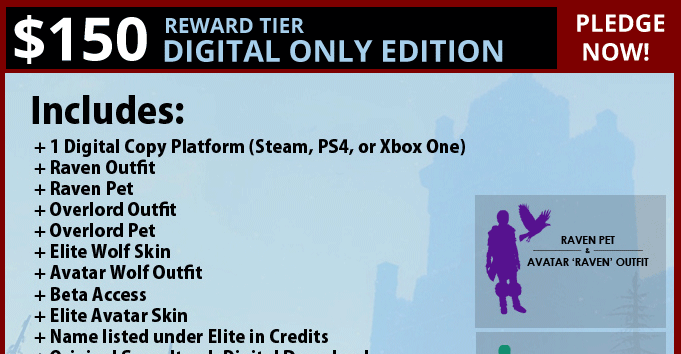
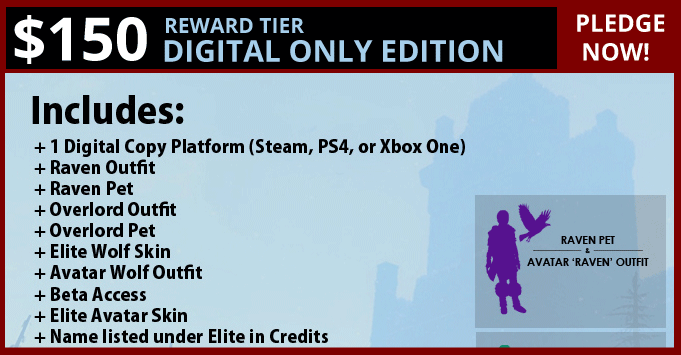
small updates

diff --git a/support.html b/support.html
@@ -118,7 +118,7 @@
                       <br><br>
                     </div>
                     <div class="colg-6 col-md-6">
-                      <a href="checkoutTier7.html"><img src="images/tier7.png" alt="Tier 7 $150, Raven Outfit + Raven Pet + Overlord Outfit + Overlord Pet + Elite Wolf Skin + Avatar 'Wolf' outfit + Beta Access Elite avatar skin + Name in Credits as Elite + copy of the game  + Elite version of the Grappling Hook In-Game Item
+                      <a href="checkoutTier7.html"><img src="images/tier7thumb.png" alt="Tier 7 $150, Raven Outfit + Raven Pet + Overlord Outfit + Overlord Pet + Elite Wolf Skin + Avatar 'Wolf' outfit + Beta Access Elite avatar skin + Name in Credits as Elite + copy of the game  + Elite version of the Grappling Hook In-Game Item
                       + Digital Wallpapers + digital soundtrack + digital art book"></a>
                     </div>
                   </div>

diff --git a/checkoutTier2.html b/checkoutTier2.html
@@ -99,7 +99,7 @@
 
                 <div class="information tip">
                   <p>Add an optional tip:</p><p class="button">Add tip</p>
-                  <input type="number" placeholder="Please enter an amount" size="60" class="generous" id="newValue"><span class="execute">calculate</span>
+                  <input type="number" placeholder="Enter Amount" size="60" class="generous" id="newValue"><span class="execute">calculate</span>
                   <p class="moreRight">New Total: <span id="newT"></p>
                 </div>
                 <div class="information">

diff --git a/checkoutTier3.html b/checkoutTier3.html
@@ -99,7 +99,7 @@
 
                 <div class="information tip">
                   <p>Add an optional tip:</p><p class="button">Add tip</p>
-                  <input type="number" placeholder="Please enter an amount" size="60" class="generous" id="newValue"><span class="execute">calculate</span>
+                  <input type="number" placeholder="Enter Amount" size="60" class="generous" id="newValue"><span class="execute">calculate</span>
                   <p class="moreRight">New Total: <span id="newT"></p>
                 </div>
                 <div class="information">

diff --git a/checkoutTier4.html b/checkoutTier4.html
@@ -99,7 +99,7 @@
 
                 <div class="information tip">
                   <p>Add an optional tip:</p><p class="button">Add tip</p>
-                  <input type="number" placeholder="Please enter an amount" size="60" class="generous" id="newValue"><span class="execute">calculate</span>
+                  <input type="number" placeholder="Enter Amount" size="60" class="generous" id="newValue"><span class="execute">calculate</span>
                   <p class="moreRight">New Total: <span id="newT"></p>
                 </div>
                 <div class="information">

diff --git a/checkoutTier5.html b/checkoutTier5.html
@@ -99,7 +99,7 @@
 
                 <div class="information tip">
                   <p>Add an optional tip:</p><p class="button">Add tip</p>
-                  <input type="number" placeholder="Please enter an amount" size="60" class="generous" id="newValue"><span class="execute">calculate</span>
+                  <input type="number" placeholder="Enter Amount" size="60" class="generous" id="newValue"><span class="execute">calculate</span>
                   <p class="moreRight">New Total: <span id="newT"></p>
                 </div>
                 <div class="information">

diff --git a/checkoutTier6.html b/checkoutTier6.html
@@ -99,7 +99,7 @@
 
                 <div class="information tip">
                   <p>Add an optional tip:</p><p class="button">Add tip</p>
-                  <input type="number" placeholder="Please enter an amount" size="60" class="generous" id="newValue"><span class="execute">calculate</span>
+                  <input type="number" placeholder="Enter Amount" size="60" class="generous" id="newValue"><span class="execute">calculate</span>
                   <p class="moreRight">New Total: <span id="newT"></p>
                 </div>
                 <div class="information">

diff --git a/checkoutTier7.html b/checkoutTier7.html
@@ -99,7 +99,7 @@
 
                 <div class="information tip">
                   <p>Add an optional tip:</p><p class="button">Add tip</p>
-                  <input type="number" placeholder="Please enter an amount" size="60" class="generous" id="newValue"><span class="execute">calculate</span>
+                  <input type="number" placeholder="Enter Amount" size="60" class="generous" id="newValue"><span class="execute">calculate</span>
                   <p class="moreRight">New Total: <span id="newT"></p>
                 </div>
                 <div class="information">

diff --git a/css/partials/_content.scss b/css/partials/_content.scss
@@ -81,7 +81,7 @@
 .presskit{
           .subH,.hborder{
                           background: none;
-                          color: white;
+                          color: $red;
                   }
           .hborder{
                    padding: 8px;
@@ -102,6 +102,7 @@
              p{
                width: 100%;
                font-size: 16px;
+               padding: 0;
              }
           }
           iframe{

diff --git a/css/style.css b/css/style.css
@@ -483,7 +483,7 @@ textarea {
 
 .presskit .subH, .presskit .hborder {
   background: none;
-  color: white; }
+  color: #7d0000; }
 .presskit .hborder {
   padding: 8px; }
 .presskit h2 {
@@ -498,7 +498,8 @@ textarea {
     font-size: 20px; }
   .presskit ul p {
     width: 100%;
-    font-size: 16px; }
+    font-size: 16px;
+    padding: 0; }
 .presskit iframe {
   top: 20px; }
 .presskit .logo .introPhoto {

diff --git a/js/script.js b/js/script.js
@@ -10,3 +10,15 @@ $(document).ready(function(){
       }
   });
 });
+$(document).ready(function(){
+  $('.tiers').click(function() {
+      if ($('.tiers').hasClass("clicked-once")) {
+  			$('.tierExplanation').hide();
+  			$('.tiers').removeClass("clicked-once");
+      }
+      else {
+  			$('.tiers').addClass("clicked-once");
+        $('.tierExplanation').show();
+      }
+  });
+});

diff --git a/js/jScroll.js b/js/jScroll.js
@@ -53,6 +53,6 @@ $().ready(function() {
 		$(window).scroll(function(){
 			$move
 				.stop()
-				.animate({"marginTop": ($(window).scrollTop() + 5) + "px"}, "slow" );
+				.animate({"marginTop": ($(window).scrollTop() + 10) + "px"}, 150 );
 		});
 	});
